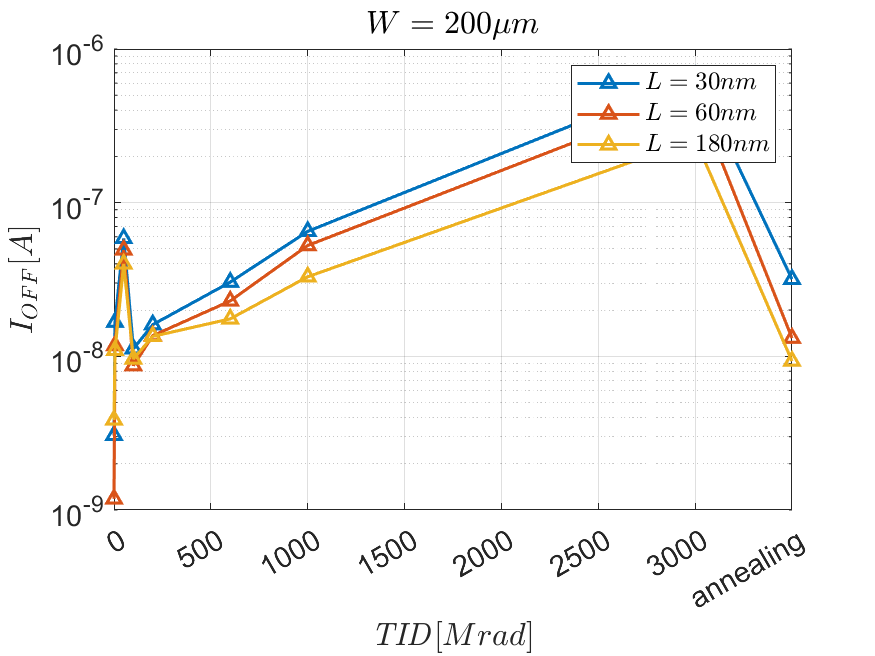
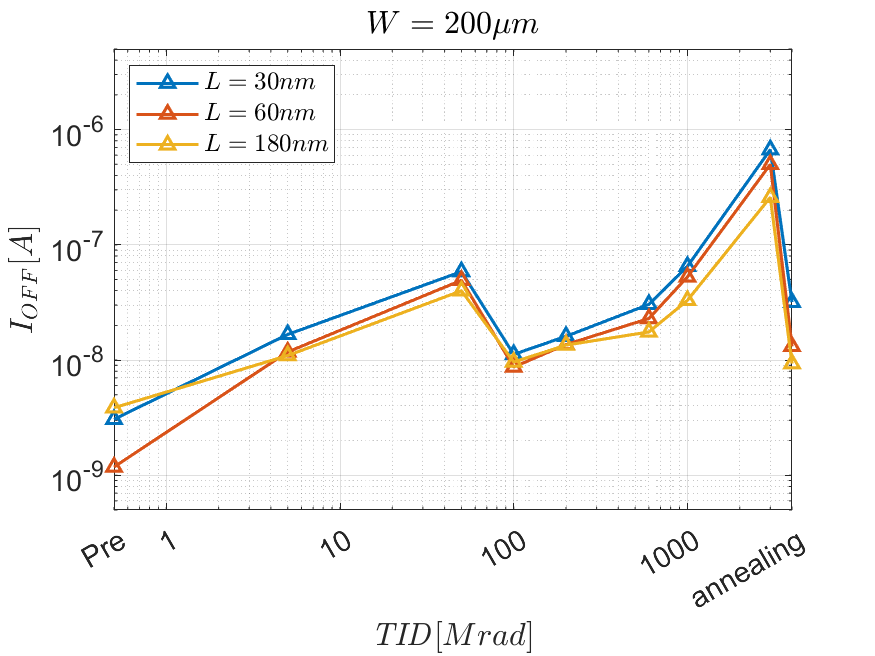
Modifiche delta ioff e ioff

diff --git a/Script Statiche/class_I_OFF.m b/Script Statiche/class_I_OFF.m
@@ -1,4 +1,4 @@
-classdef class_delta_I_OFF
+classdef class_I_OFF
     
     methods(Static)
 
@@ -32,7 +32,7 @@ classdef class_delta_I_OFF
                             if contains(cartella_dispositivo , "nf")
                                 delta(j , i) = NaN;
                             else
-                                I_off = class_delta_I_OFF.calcola_I_off(valori_vds(j), char(cartella_dispositivo));
+                                I_off = class_I_OFF.calcola_I_off(valori_vds(j), char(cartella_dispositivo));
                                 
                                 if(i == 1)
                                         I_off_pre(j , 1) = I_off;
@@ -69,7 +69,7 @@ classdef class_delta_I_OFF
             cd DeltaIoff
 
             % aggiungiamo le tabelle raggruppate
-            class_delta_I_OFF.tabelleRaggruppateDispositivo()
+            class_I_OFF.tabelleRaggruppateDispositivo()
             
             cd ..
         end
@@ -78,8 +78,8 @@ classdef class_delta_I_OFF
             ARRAY_VDS_mV = 150:150:900;
             
             for VDS_mV = ARRAY_VDS_mV
-                class_delta_I_OFF.tabellaRaggruppataDispositivo_Vds(VDS_mV)
-                class_delta_I_OFF.plotDeltaIoff_Vds(VDS_mV);
+                class_I_OFF.tabellaRaggruppataDispositivo_Vds(VDS_mV)
+                class_I_OFF.plotDeltaIoff_Vds(VDS_mV);
             end
 
 
@@ -254,6 +254,8 @@ classdef class_delta_I_OFF
         end
 
         % funzione che crea i plot per fare i confronti tra P e N MOS
+        % posizionarsi nella cartella contenente le cartelle N4 e P1 alla
+        % chiamata della funzione indicare il valore di Vds in mV: [150 300 450 600 750 900]
         function plot_confronto_P_N(Vds_mV)  
             close all
 
@@ -326,7 +328,10 @@ classdef class_delta_I_OFF
 
             end
         end
+        
 
+        % Funzione che crea le tabelle e i plot (plot raggruppati per W)
+        % per le I_off al variare della dose subita
         function I_OFF(Vds_mV)
             
             close all
@@ -339,9 +344,11 @@ classdef class_delta_I_OFF
     
             COLORI = lines(3);
             DISPOSITIVI = {};
-            X = [0 5 50 100 200 600 1000 3000 3500];
-            X_Tick = 0:500:3500;
-            X_Tick_Label = {0 500 1000 1500 2000 2500 3000 "annealing"};
+            X = [0.5 5 50 100 200 600 1000 3000 4000];
+            X_Tick = [0.5 1 10 100 1000 4000];
+            X_Tick_Label = num2cell(X_Tick);
+            X_Tick_Label{1} = "Pre";
+            X_Tick_Label{end} = "annealing";
             
             figure
             figure
@@ -379,7 +386,7 @@ classdef class_delta_I_OFF
                 indice_dispositivo = (find(ARRAY_W == W)-1)*3 + find(ARRAY_L == L);
                 indice_grado = (irraggiamenti == grado);
 
-                i_off(indice_dispositivo , indice_grado) = abs(class_delta_I_OFF.calcola_I_off(Vds_mV/1e3 , cartella_attuale)*1e-9);
+                i_off(indice_dispositivo , indice_grado) = abs(class_I_OFF.calcola_I_off(Vds_mV/1e3 , cartella_attuale)*1e-9);
             end
 
             indice_dispositivo = 0;
@@ -393,23 +400,25 @@ classdef class_delta_I_OFF
                     colore = ARRAY_L == L;
 
                     DISPOSITIVI{end+1} = sprintf("%d - %d" , W , L);
-
-                    plot(X , i_off(indice_dispositivo , :) , DisplayName= sprintf("$L = %d nm$" , L) , Color=COLORI(colore , :) ,LineStyle="-", Marker="^")
+                    temp = i_off(indice_dispositivo , :);
+                    plot(X , temp , DisplayName= sprintf("$L = %d nm$" , L) , Color=COLORI(colore , :) ,LineStyle="-", Marker="^")
                     hold on
 
                 end
                 
                 title(sprintf("$W = %d\\mu m$" , W), Interpreter="latex");
-                legend(Interpreter="latex" , FontSize=12);
+                legend(Interpreter="latex" , FontSize=12 , Location="northwest");
                 xlabel("\textit{TID}$[Mrad]$" , Interpreter="latex");
                 ylabel("$I_{OFF} [A]$" , Interpreter="latex");
-                xlim([0 3500])
-                
+                xlim([0.5 4000])
+                ylim([5e-10 5e-6])
+
                 ax = gca;
                 ax.XTick = X_Tick;
                 ax.XTickLabel = X_Tick_Label;
                 
                 ax.YScale = "log";
+                ax.XScale = "log";
 
                 grid on
                 
